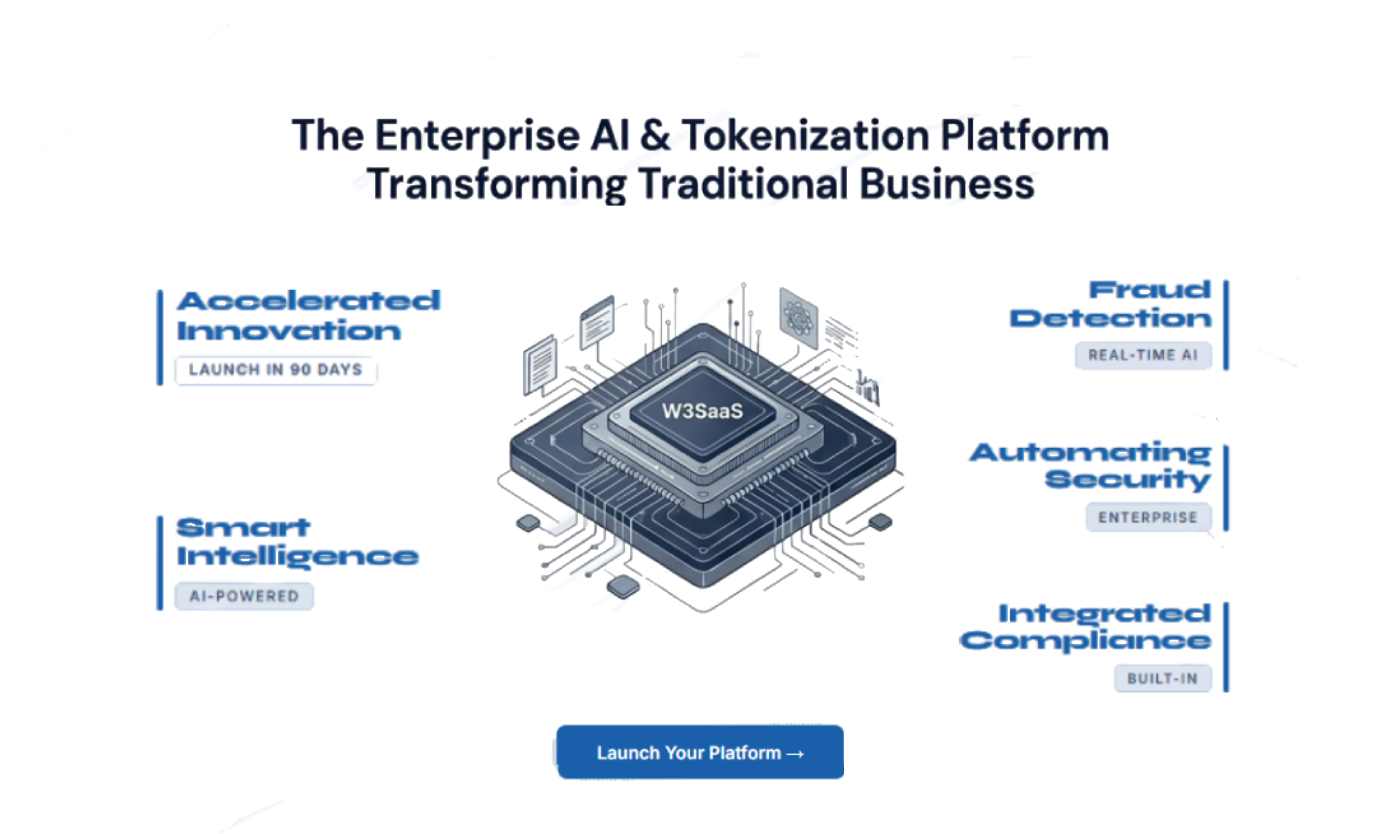
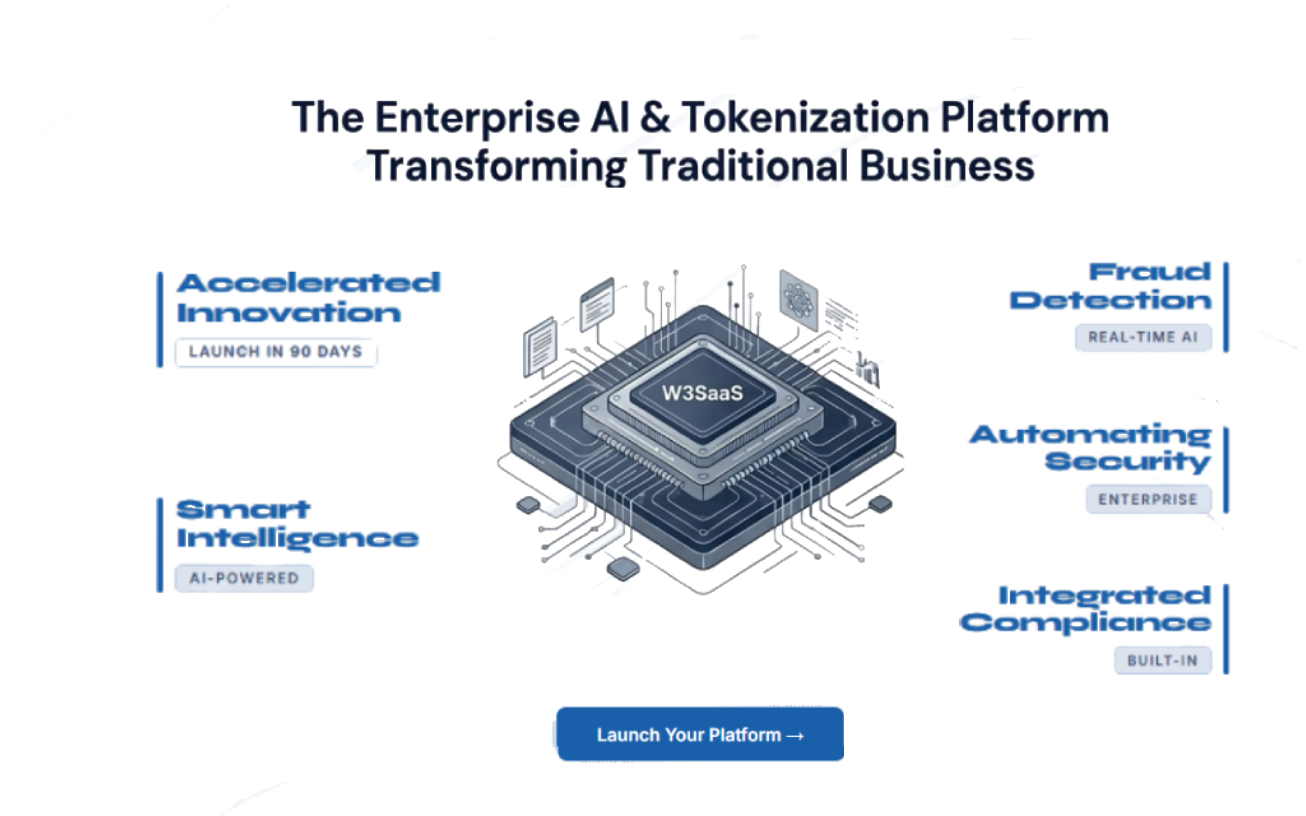
Add files via upload

diff --git a/index.html b/index.html
@@ -385,7 +385,7 @@ nav{
 
 /* MOBILE-ONLY HERO GRAPHIC (new image with tappable hotspots) */
 .hero-mobile{display:none;}
-.hero-mobile-graphic{position:relative;width:100%;max-width:640px;margin:0 auto;}
+.hero-mobile-graphic{position:relative;width:100%;max-width:none;margin:0 auto;}
 .hero-mobile-graphic img{width:100%;height:auto;display:block;}
 .hero-mobile-graphic a{position:absolute;display:block;border-radius:8px;
   -webkit-tap-highlight-color:rgba(26,95,170,0.15);}
@@ -399,8 +399,7 @@ nav{
 @media (max-width:640px){
   .hero-desktop{display:none;}
   .hero .hero-ctas{display:none;}
-  .hero-mobile{display:block;width:100%;}
-  .hero-mobile{margin-top:-0.5rem;}
+  .hero-mobile{display:block;width:100vw;margin-left:calc(-50vw + 50%);margin-top:-0.5rem;}
 }
 
 .hero-ctas{
@@ -803,7 +802,7 @@ footer{
   .dropdown-menu a{padding:13px 12px;font-size:14.5px;}
 
   /* --- hero --- */
-  .hero{padding:0.5rem 0.5rem 2rem;}
+  .hero{padding:0.25rem 0 2rem;}
   .hero-ctas{flex-direction:column;width:100%;}
   .hero-ctas .btn-primary,
   .hero-ctas .btn-ghost{width:100%;text-align:center;}